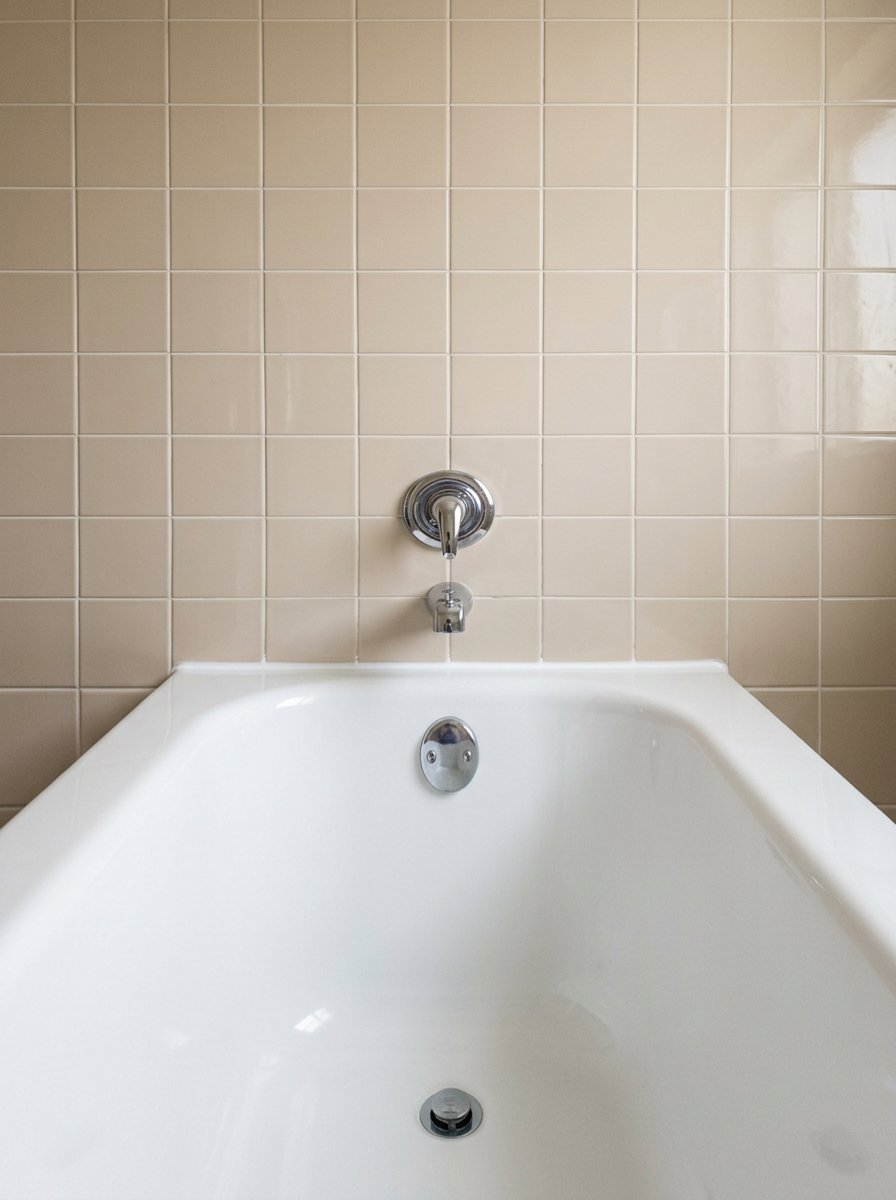
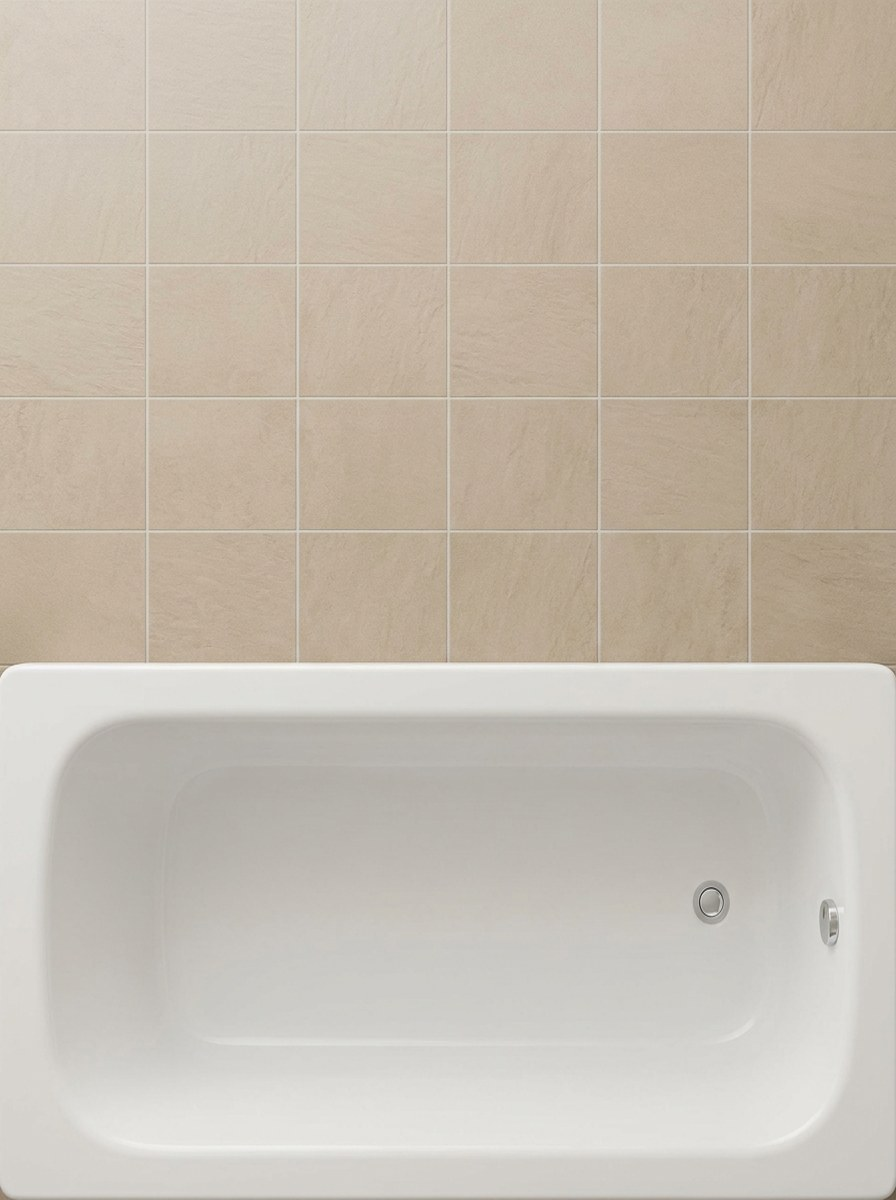
주방·욕실 사진을 위에서 똑바로 본 시점으로 교체 (L33·34·36·46·47·48, bathtub, basin)
운영자 의견: 비스듬히 찍힌 가스레인지는 닦는 재미가 덜하다 → 평면 시점으로 통일.
구역 경계는 사진을 세로 구간별로 맞춰 구역 사각형과 일치시킴. 자동차 판은 이번에 제외.

Claude-Session: https://claude.ai/code/session_01QACgwmZuysuzoo8RdfQTyj

diff --git a/ops/scene-photo-prompts.md b/ops/scene-photo-prompts.md
@@ -110,3 +110,22 @@
 | 정원: 벽돌 벽 45 % / 데크 55 % | 63 = 4fdcc59c, 66 = d10068d9, 70 = 3af10b8a, 72 = 33b5a81c |
 | 정원: 왼쪽 돌 파티오 / 오른쪽 데크 | 64 = b73e871f, 67 = 90e87294, 71 = 5cf9654c |
 | 정원: 울타리 50 % / 플라스틱 벤치 50 % | 65 = c1ff3acb, 69 = 6de5e9cb |
+
+## 위에서 똑바로 본 사진으로 교체 (2026-11-28)
+
+운영자 의견: 가스레인지처럼 비스듬히(입체적으로) 찍힌 사진은 닦는 재미가 덜하다 → 평면(정면·수직 위) 시점으로 통일.
+비스듬했던 8장을 다시 만들었다. 프롬프트 공통: "flat-lay, directly overhead, 90 degrees, orthographic, no perspective".
+경계는 행 평균 밝기 변화로 재서 구역 사각형에 맞게 세로 구간을 늘리거나 줄였다.
+
+| 파일 | Runway 작업 번호 | 원본 경계 → 구역 |
+|---|---|---|
+| L33 | 7839d5cf | 0.305 / 0.731 → 0.36 / 0.72 |
+| L34 | 32e992ed | 0.288 / 0.707 → 0.36 / 0.72 |
+| L36 | e0b45cc8 | 0.312 / 0.701 → 0.36 / 0.72 |
+| L46 | dfaf58c7 | 0.622 → 0.55 |
+| L47 | 2bf9a935 | 0.642 → 0.55 |
+| L48 | 0e6dabe2 | 0.588 → 0.55 |
+| bathtub | 47c02bde | (구역 없음) |
+| basin | 82fe494c | (구역 없음) |
+
+남은 것: 자동차 판(73–96)은 차체·실내가 입체라 일부(73, 77, 79, 실내 전부)가 여전히 비스듬하다. Runway 무료 크레딧이 14 남아 이번에는 손대지 않았다.
